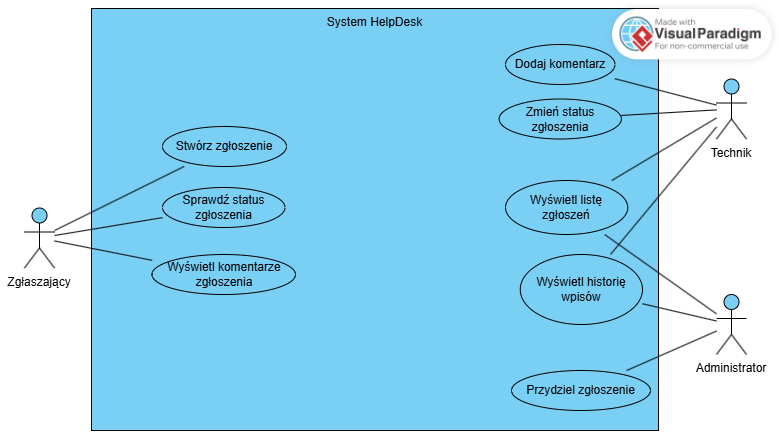
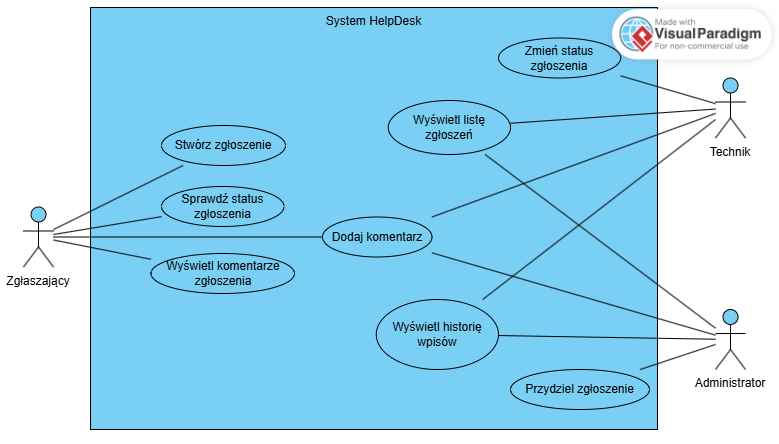
zmiany w user stories i use case'ach wynikajace z zmiany dostepnosci metody dodawania komentarzy

diff --git a/docs/user_stories.md b/docs/user_stories.md
@@ -15,14 +15,22 @@ Kryterium akceptacji: zgłoszenie zostaje przypisane do wybranego technika i poj
 
 
 3. Jako Technik
-chcę zmienić status zgłoszenia i dodać do niego komentarz,
+chcę zmienić status zgłoszenia,
 aby rejestrować postępy pracy i poinformować Zgłaszającego/Administratora, że zgłoszenie jest rozwiązane.
 
-Kryterium akceptacji: status może zmienić tylko technik przypisany do zgłoszenia. Dozwolone są wyłącznie poprawne przejścia (Nowe → W trakcie; W trakcie → Oczekuje; Oczekuje -> W trakcie; W trakcie → Rozwiązane; Oczekuje -> Rozwiązane), a niedozwolone przejście jest odrzucane. Każda zmiana statusu automatycznie tworzy wpis w historii z datą, autorem i opisem zmiany. Dodany komentarz zapisuje się przy zgłoszeniu.
+Kryterium akceptacji: status może zmienić tylko technik przypisany do zgłoszenia. Dozwolone są wyłącznie poprawne przejścia (Nowe → W trakcie; W trakcie → Oczekuje; Oczekuje -> W trakcie; W trakcie → Rozwiązane; Oczekuje -> Rozwiązane), a niedozwolone przejście jest odrzucane. Każda zmiana statusu automatycznie tworzy wpis w historii z datą, autorem i opisem zmiany. 
 
 
 
-4. Jako Technik/Administrator
+4. Jako Zgłaszający/Technik/Administrator
+chcę dodać komentarz do zgłoszenia,
+aby przekazać innym osobom pracującym nad zgłoszeniem informacje o problemie lub postępie prac.
+
+Kryterium akceptacji: komentarz może dodać każdy, kto ma dostęp do zgłoszenia (Zgłaszający do swojego zgłoszenia, Technik do przydzielonego, Administrator do każdego). Komentarz zapisuje się przy zgłoszeniu z treścią, autorem i datą. Pusty komentarz lub komentarz bez dostępu jest odrzucany.
+
+
+
+5. Jako Technik/Administrator
 chcę wyświetlić listę zgłoszeń,
 aby zobaczyć, co jest do zrobienia.
 
@@ -30,7 +38,7 @@ Kryterium akceptacji: system zwraca zgłoszenia, każde z ID, statusem, prioryte
 
 
 
-5. Jako Technik/Administrator
+6. Jako Technik/Administrator
 chcę wyświetlić historię wpisów danego zgłoszenia,
 aby kontrolować postępy prac i przypomnieć sobie, jak wyglądała praca nad zgłoszeniem.
 
@@ -38,7 +46,7 @@ Kryterium akceptacji: system wyświetla wszystkie wpisy historii wybranego zgło
 
 
 
-6. Jako Zgłaszający
+7. Jako Zgłaszający
 chcę sprawdzić status mojego zgłoszenia,
 aby wiedzieć, na jakim etapie są prace nad zgłoszeniem.
 
@@ -46,7 +54,7 @@ Kryterium akceptacji: po podaniu ID system wyświetla status zgłoszenia. Jeśli
 
 
 
-7. Jako Zgłaszający 
+8. Jako Zgłaszający 
 chcę wyświetlić komentarze do mojego zgłoszenia, 
 aby wiedzieć, co technik ustalił w sprawie mojego problemu. 
 
